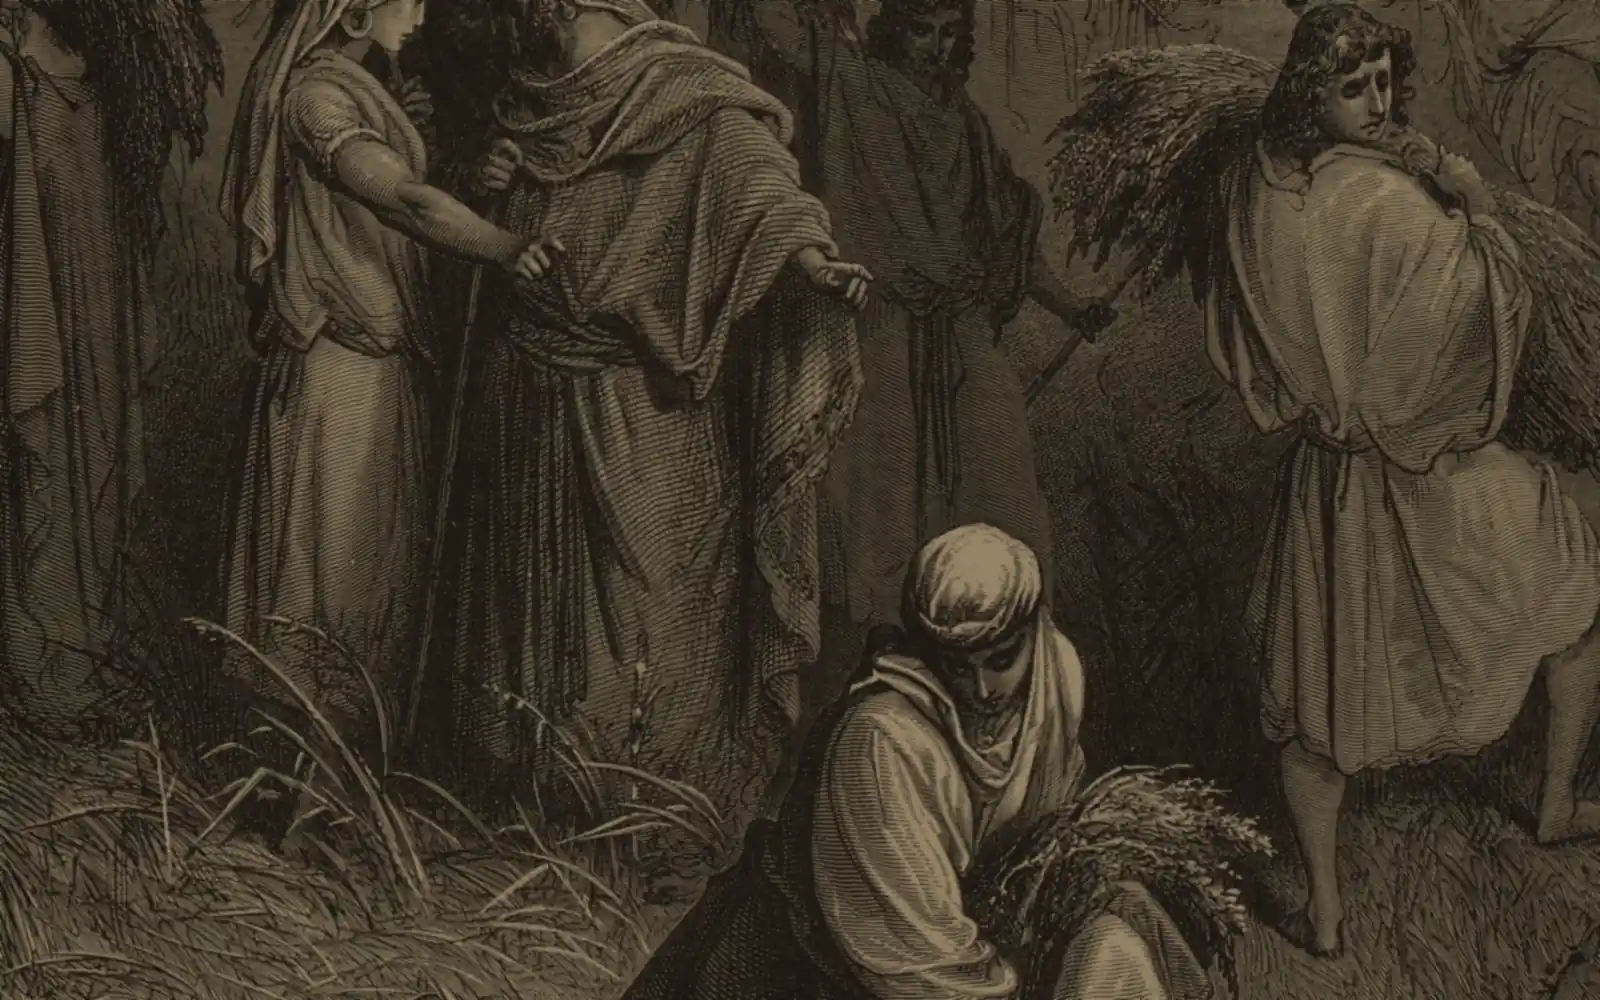
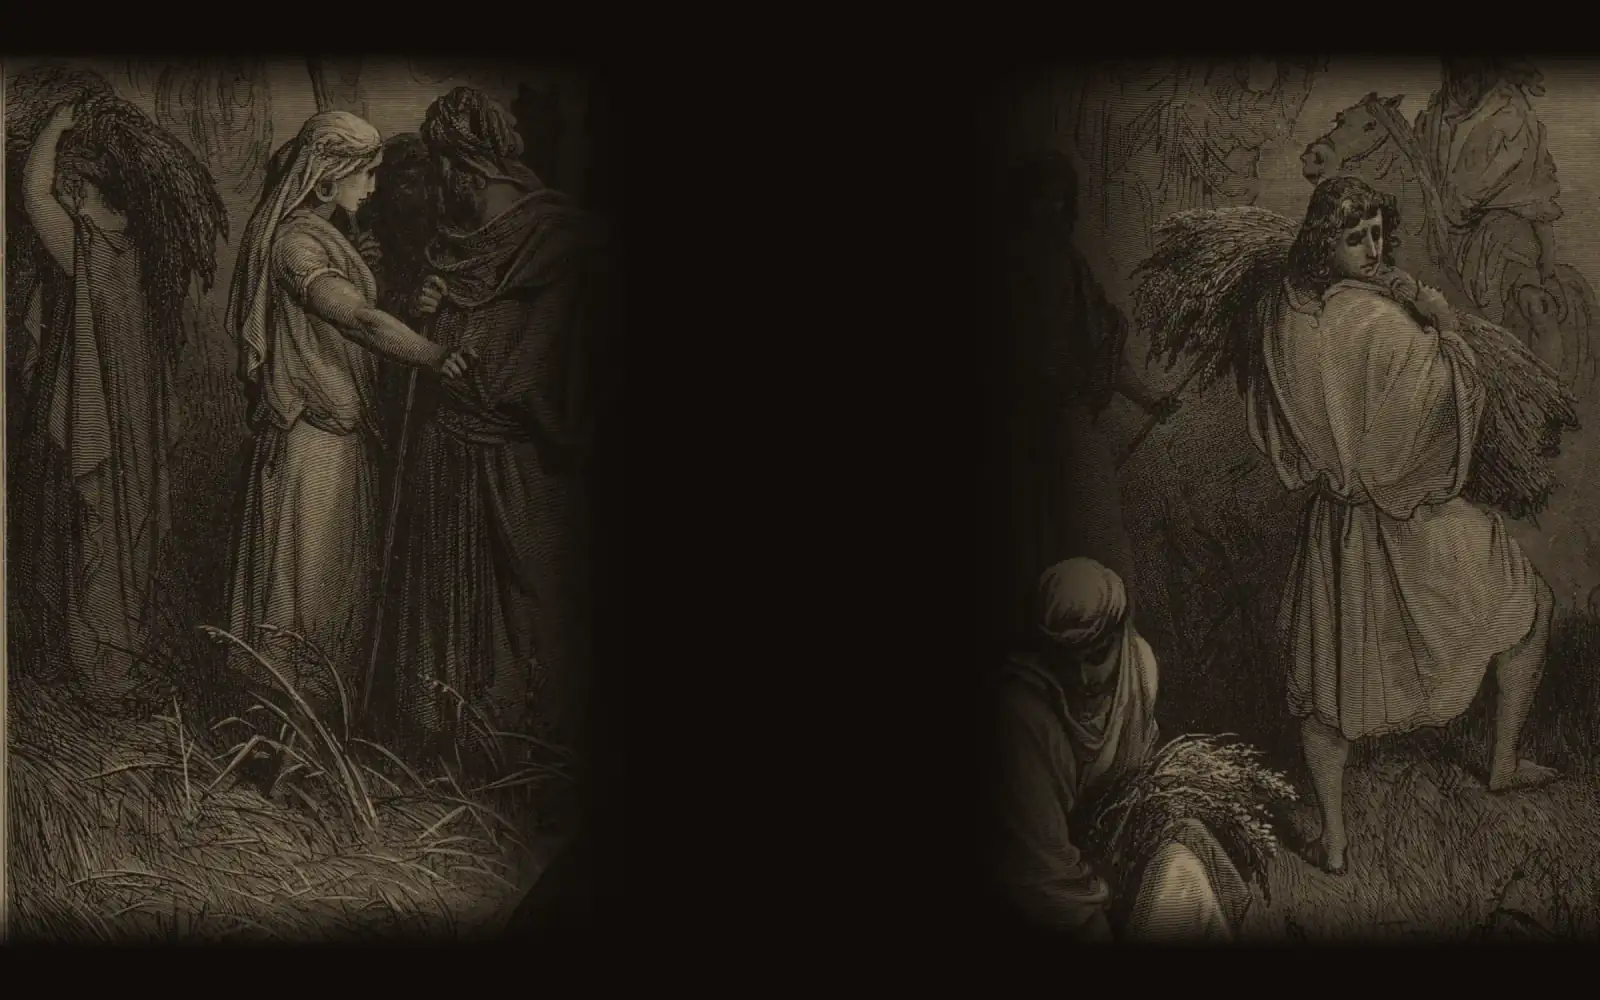
Art: no Jesus, no heads cut, and each About picture fits its section
Josh's rules. The room and Groups plates no longer show Jesus: the room
plate keeps only the listeners, and Groups only the parties at the sides of
the work. The mid-size group and Messages plates are recut so every head
stays, with a margin so a 16:10 screen or a phone does not trim an edge figure.

About's plates are now chosen by what each section says, not by which page
they came from, and a section with no fitting work has none.

diff --git a/src/components/board/about-view.tsx b/src/components/board/about-view.tsx
@@ -19,7 +19,7 @@ import { useServerSession } from "@/lib/server-session-state";
 import { fetchAccountExport, stepUpMfa } from "@/lib/mfa-api";
 import { RoomsManager } from "@/components/board/rooms-manager";
 import { useFocusAuthenticator } from "@/lib/board/focus-authenticator";
-import type { SectionPlateId } from "@/lib/board/engraved";
+import { SECTION_PLATE, type SectionPlateId } from "@/lib/board/engraved";
 import { AudienceChoice, RoomAudienceMark } from "@/components/board/audience";
 import { FIELD_HINT } from "@/lib/board/field-hints";
 import { cn } from "@/lib/cn";
@@ -117,27 +117,23 @@ const HOW = [
 ];
 
 /**
- * About's How it works, by what a reader wants to know. Every entry in HOW sits in one group, and each
- * group carries the plate of the page it explains.
+ * About's How it works, by what a reader wants to know. Every entry in HOW sits in one group. A group has a
+ * plate only where one fits what it says.
  */
-const HOW_HEADINGS: { heading: string; plate: SectionPlateId; titles: string[] }[] = [
+const HOW_HEADINGS: { heading: string; plate?: SectionPlateId; titles: string[] }[] = [
   {
     heading: "Getting in and showing up",
-    plate: "week",
+    plate: "gathering",
     titles: ["Getting in", "The week", "After a meeting"],
   },
   {
     heading: "Rooms and groups",
-    plate: "groups",
+    plate: "study",
     titles: ["What a room includes", "Members", "Room chat", "Interest groups", "Home"],
   },
-  { heading: "Talking to people", plate: "messages", titles: ["Who can see you", "Posting"] },
-  { heading: "Keeping it clean", plate: "civic", titles: ["Stewards", "Moderation"] },
-  {
-    heading: "What's in the rooms",
-    plate: "group",
-    titles: ["Debates", "Tradesmen", "Church needs"],
-  },
+  { heading: "Talking to people", plate: "writing", titles: ["Who can see you", "Posting"] },
+  { heading: "Keeping it clean", plate: "judgment", titles: ["Stewards", "Moderation"] },
+  { heading: "What's in the rooms", titles: ["Debates", "Tradesmen", "Church needs"] },
 ];
 
 const HOW_GROUPS = HOW_HEADINGS.map(({ heading, plate, titles }) => ({
@@ -145,6 +141,25 @@ const HOW_GROUPS = HOW_HEADINGS.map(({ heading, plate, titles }) => ({
   plate,
   items: HOW.filter((item) => titles.includes(item.title)),
 }));
+
+/** A section's rows and its plate: a band above them, or an upright plate beside them on a wide screen. */
+function WithPlate({ plate, children }: { plate?: SectionPlateId; children: ReactNode }) {
+  if (!plate) return children;
+  if (!SECTION_PLATE[plate].tall) {
+    return (
+      <>
+        <SectionPlate plate={plate} />
+        {children}
+      </>
+    );
+  }
+  return (
+    <div className="grid gap-4 lg:grid-cols-[minmax(0,1fr)_11rem] lg:gap-6">
+      {children}
+      <SectionPlate plate={plate} />
+    </div>
+  );
+}
 
 export function AboutView({
   publicView = false,
@@ -241,7 +256,7 @@ export function AboutView({
             modernity dissolved: the family, the parish, the town, and honest work.
           </p>
         </div>
-        <SectionPlate plate="hands" tall />
+        <SectionPlate plate="harvest" />
       </section>
 
       <section className={publicView ? "flex flex-col gap-4" : listCard}>
@@ -249,26 +264,26 @@ export function AboutView({
         {HOW_GROUPS.map((group) => (
           <div key={group.heading} className={box}>
             <h3 className="font-display text-xl text-fg">{group.heading}</h3>
-            <SectionPlate plate={group.plate} />
-            <dl>
-              {group.items.map((item) => (
-                <div key={item.title} className={entry}>
-                  <dt className={entryName}>{item.title}</dt>
-                  <dd className={entryText}>
-                    {item.text.split("\n").map((paragraph) => (
-                      <p key={paragraph}>{paragraph}</p>
-                    ))}
-                  </dd>
-                </div>
-              ))}
-            </dl>
+            <WithPlate plate={group.plate}>
+              <dl>
+                {group.items.map((item) => (
+                  <div key={item.title} className={entry}>
+                    <dt className={entryName}>{item.title}</dt>
+                    <dd className={entryText}>
+                      {item.text.split("\n").map((paragraph) => (
+                        <p key={paragraph}>{paragraph}</p>
+                      ))}
+                    </dd>
+                  </div>
+                ))}
+              </dl>
+            </WithPlate>
           </div>
         ))}
       </section>
 
       <section className={publicView ? box : listCard}>
         <h2 className={publicView ? "text-2xl text-fg" : "pc-h"}>The rooms</h2>
-        <SectionPlate plate="room" />
         <dl>
           {rooms.map((room) => (
             <div key={room.id} className={entry}>
@@ -283,7 +298,6 @@ export function AboutView({
 
       <section className={publicView ? box : listCard}>
         <h2 className={publicView ? "text-2xl text-fg" : "pc-h"}>Kinds of post</h2>
-        <SectionPlate plate="rooms" />
         <dl>
           {POST_TYPES.map((type) => (
             <div key={type.id} className={entry}>

diff --git a/src/lib/board/engraved.ts b/src/lib/board/engraved.ts
@@ -81,39 +81,36 @@ const PLATE_CAPTION: Partial<Record<Section | PlateView, string>> = {
   civic: "Gustave Doré · The Judgment of Solomon · 1866",
 };
 
-/** About's section plates, cut from the app's own art. Each is credited where it stands. */
+/**
+ * About's section plates, each chosen for what its section says and credited where it stands. Josh's rules:
+ * Jesus is never featured, no crop cuts off a head, and no work appears twice on the page.
+ * An upright plate stands beside the section's text; the others are bands above it.
+ */
 export const SECTION_PLATE = {
-  week: {
-    alt: "Angels on the stair of Jacob’s ladder",
-    caption: "Gustave Doré · Jacob’s Dream · 1866",
+  harvest: {
+    alt: "A reaper carrying a sheaf of grain home from the field",
+    caption: "Gustave Doré · Ruth and Boaz · 1866",
+    tall: true,
   },
-  groups: {
-    alt: "A crowd gathered around the Virgin and Child",
+  gathering: {
+    alt: "A party of men gathered in their best robes",
     caption: "Albrecht Dürer · The Feast of the Rose Garlands · 1506",
+    tall: true,
   },
-  messages: {
-    alt: "A hand writing at a small desk",
-    caption: "Albrecht Dürer · Erasmus of Rotterdam · 1526",
+  study: {
+    alt: "Saint Jerome writing in his room",
+    caption: "Albrecht Dürer · Saint Jerome in His Study · 1514",
+    tall: false,
   },
-  civic: {
+  judgment: {
     alt: "Solomon on his throne with one hand raised",
     caption: "Gustave Doré · The Judgment of Solomon · 1866",
+    tall: false,
   },
-  group: {
-    alt: "Ruth and Boaz among the reapers, one carrying a sheaf of grain",
-    caption: "Gustave Doré · Ruth and Boaz · 1866",
-  },
-  room: {
-    alt: "Christ seated on a hillside with the listeners around him",
-    caption: "Gustave Doré · The Sermon on the Mount · 1866",
-  },
-  rooms: {
-    alt: "Saint Jerome writing at his desk",
-    caption: "Albrecht Dürer · Saint Jerome in His Study · 1514",
-  },
-  hands: {
-    alt: "A pair of hands in prayer",
-    caption: "Albrecht Dürer · Praying Hands · 1508",
+  writing: {
+    alt: "Erasmus writing at his desk",
+    caption: "Albrecht Dürer · Erasmus of Rotterdam · 1526",
+    tall: true,
   },
 } as const;
 

diff --git a/src/lib/board/page-art.test.ts b/src/lib/board/page-art.test.ts
@@ -75,6 +75,23 @@ test("About, Privacy, and Terms stand on a whole plate, not a band: Martin for A
   assert.doesNotMatch(doc, /hero-band/);
 });
 
+test("About's plates keep Josh's rules: Jesus is not in them, and each has its section", () => {
+  const about = readFileSync(new URL("../../components/board/about-view.tsx", import.meta.url), "utf8");
+  const captions = Object.values(SECTION_PLATE).map((plate) => plate.caption).join(" ");
+  assert.doesNotMatch(captions, /Sermon on the Mount/);
+  for (const [heading, plate] of [
+    ["Getting in and showing up", "gathering"],
+    ["Keeping it clean", "judgment"],
+    ["Talking to people", "writing"],
+  ]) {
+    assert.match(about, new RegExp(`${heading}"[,\\s]*plate: "${plate}"`), heading);
+  }
+  assert.match(about, /<SectionPlate plate="harvest" \/>/);
+  assert.doesNotMatch(captions, /Praying Hands/);
+  const manifest = readFileSync(new URL("./art-two-sides.test.ts", import.meta.url), "utf8");
+  assert.doesNotMatch(manifest, /who: "Christ"/);
+});
+
 test("About sets each section plate once, with an on-list credit, and every file is credited", () => {
   const about = readFileSync(new URL("../../components/board/about-view.tsx", import.meta.url), "utf8");
   const credits = readFileSync(new URL("../../../public/art/ATTRIBUTION.md", import.meta.url), "utf8");

diff --git a/src/lib/board/art-two-sides.test.ts b/src/lib/board/art-two-sides.test.ts
@@ -29,7 +29,7 @@ const PLATES: Record<string, { left: Panel; right: Panel }> = {
     right: { artist: "Albrecht Dürer", work: "Saint Jerome in His Study", box: [0.408, 0.287, 0.742, 0.647] },
   },
   "plate-room-A-2400.webp": {
-    left: { artist: "Gustave Doré", work: "The Sermon on the Mount", box: [0.389, 0.105, 0.821, 0.555] },
+    left: { artist: "Gustave Doré", work: "The Sermon on the Mount", box: [0.15, 0.555, 0.56, 0.95] },
     right: { artist: "Gustave Doré", work: "The Sermon on the Mount", box: [0.627, 0.55, 0.973, 0.91] },
   },
   "plate-groups-A-2400.webp": {
@@ -189,8 +189,7 @@ const HEADS: Record<string, { who: string; box: [number, number, number, number]
     { who: "Saint Jerome", box: [2040, 600, 2250, 870], from: 1600 },
   ],
   "plate-room-A-2400.webp": [
-    { who: "Christ", box: [250, 600, 360, 725], from: 1600 },
-    { who: "the woman beside Christ", box: [40, 710, 115, 805], from: 1600 },
+    { who: "the listener at the left", box: [20, 420, 120, 560], from: 1600 },
   ],
   "plate-week-A-2400.webp": [{ who: "Jacob", box: [230, 420, 380, 520], from: 1600 }],
 };

diff --git a/src/components/board/section-plate.tsx b/src/components/board/section-plate.tsx
@@ -1,8 +1,8 @@
 import { SECTION_PLATE, type SectionPlateId } from "@/lib/board/engraved";
 
 /** A plate set in a section, as in a book: an engraved frame with its credit under it. Data savers skip it. */
-export function SectionPlate({ plate, tall = false }: { plate: SectionPlateId; tall?: boolean }) {
-  const { alt, caption } = SECTION_PLATE[plate];
+export function SectionPlate({ plate }: { plate: SectionPlateId }) {
+  const { alt, caption, tall } = SECTION_PLATE[plate];
   return (
     <figure className={tall ? "section-plate section-plate--tall" : "section-plate"}>
       <img

diff --git a/public/art/ATTRIBUTION.md b/public/art/ATTRIBUTION.md
@@ -65,7 +65,7 @@ fails if any screen at 1600, 1920 or 2560 shows the same file or panel twice, or
 |---|---|---|---|
 | This week | Doré, *Jacob's Dream*: Jacob asleep (lower left) | the same plate: the lit top of the ladder and angels | `plate-week-A-2400.webp` |
 | Rooms | Dürer, *Saint Jerome in His Study*: the sleeping lion | the same plate: Jerome at his desk | `plate-rooms-A-2400.webp` |
-| A room | Doré, *The Sermon on the Mount*: Christ and the hillside | the same plate: the listeners, lower right, fading into the ground at the top | `plate-room-A-2400.webp` |
+| A room | Doré, *The Sermon on the Mount*: the seated listeners, lower left | the same plate: the listeners, lower right, fading into the ground at the top | `plate-room-A-2400.webp` |
 | Groups | Dürer, *The Feast of the Rose Garlands*: the pope's party | the same work: the emperor's party | `plate-groups-A-2400.webp` |
 | A group | Doré, *Ruth and Boaz*: the gleaners, left | the same plate: the reapers, right | `plate-group-A-2400.webp` |
 | Find | Bauer, *Princess Tuvstarr*: Tuvstarr at the tarn | the same work: the trees at the far left of the scene | `plate-find-A-2400.webp` |
@@ -76,21 +76,28 @@ fails if any screen at 1600, 1920 or 2560 shows the same file or panel twice, or
 
 ### Section plates on About
 
-About's sections each carry a plate, cut from files above, and each is credited under the picture. No new
-scan and no new licence. `section-<key>.webp` is 1500×500 (the hands 600×800) and under 90 KB; the sepia plates
-have their levels lifted so the line work reads at this size, and the two grey sources are warmed to match.
-A section uses the plate of the page it explains. One screen shows each work once, beside the door's Martin.
+Josh, Oct 31: Jesus is never featured, no crop cuts off a head, and each picture matches its section. Every
+plate here is cut from files above and credited under the picture. No new scan and no new licence.
+`section-<key>.webp` is under 90 KB; the sepia plates have their levels lifted so the line work reads at this size.
+What's in the rooms, The rooms and Kinds of post carry no plate: no work left fits them without repeating one on the page.
 
 | Screen | Work | File | Cut from | Licence |
 |---|---|---|---|---|
-| Getting in and showing up | Gustave Doré, *Jacob's Dream*, 1866 | `section-week.webp` | `dore-band-A.webp` | Public domain (artist died 1883) |
-| Rooms and groups | Albrecht Dürer, *The Feast of the Rose Garlands*, 1506 | `section-groups.webp` | `plate-groups-A.webp` | Public domain (artist died 1528) |
-| Talking to people | Albrecht Dürer, *Erasmus of Rotterdam*, 1526 | `section-messages.webp` | `plate-messages-A.webp` | CC0 (NGA Open Access) |
-| Keeping it clean | Gustave Doré, *The Judgment of Solomon*, 1866; Solomon only, no sword or child | `section-civic.webp` | `plate-desk-A.webp` | Public domain (artist died 1883) |
-| What's in the rooms | Gustave Doré, *Ruth and Boaz*, 1866 | `section-group.webp` | `plate-group-A.webp` | Public domain (artist died 1883) |
-| The rooms | Gustave Doré, *The Sermon on the Mount*, 1866 | `section-room.webp` | `plate-room-A.webp` | Public domain (artist died 1883) |
-| Kinds of post | Albrecht Dürer, *Saint Jerome in His Study*, 1514 | `section-rooms.webp` | `durer-jerome-band-A.webp` | CC0 (NGA Open Access) |
-| What we stand for | Albrecht Dürer, *Study of an Apostle's Hands (Praying Hands)*, 1508 | `section-hands.webp` | `durer-hands-side-A.webp` | Public domain (artist died 1528) |
+| What we stand for | Gustave Doré, *Ruth and Boaz*, 1866: a reaper and his sheaf, honest work. The top of the crop fades into the print's sky, because the print's own top edge runs through two far figures | `section-harvest.webp` | `plate-group-A-2400.webp` | Public domain (artist died 1883) |
+| Getting in and showing up | Albrecht Dürer, *The Feast of the Rose Garlands*, 1506: the pope's party, people who turned up | `section-gathering.webp` | `plate-groups-A-2400.webp` | Public domain (artist died 1528) |
+| Rooms and groups | Albrecht Dürer, *Saint Jerome in His Study*, 1514: a room; the crucifix on the sill is out of frame | `section-study.webp` | `durer-jerome-band-A.webp` | CC0 (NGA Open Access) |
+| Keeping it clean | Gustave Doré, *The Judgment of Solomon*, 1866: Solomon only, no sword or child | `section-judgment.webp` | `plate-desk-A.webp` | Public domain (artist died 1883) |
+| Talking to people | Albrecht Dürer, *Erasmus of Rotterdam*, 1526: a man writing to someone, for messages and posts | `section-writing.webp` | `plate-messages-A-900.webp` | CC0 (NGA Open Access) |
+
+### Recut Oct 31: no Jesus, no heads cut
+
+`plate-room-A` (all three sizes) shows only the listeners from *The Sermon on the Mount*: Christ and the figures
+around him are out of every crop, and the left panel is the crowd left of them. `plate-groups-A` and its 900px file
+show only the two parties at the sides of *The Feast of the Rose Garlands*: the Virgin and the Child are out.
+`plate-group-A` and `plate-messages-A` are cut from their 2400 files, which keep every head. The 1600
+Messages plate keeps Erasmus alone, so its credit stays true. All four 1600 files set the 16:9 art on the
+dark ground at 1600×1000, so a 16:10 screen shows it whole, and the two recut phone files keep the art inside
+the middle 738px a phone shows. Other screen shapes can still trim an edge figure.
 
 Rejected: the MFAH photograph of Martin's *Adam and Eve, the Morning Hymn* is CC BY-SA 4.0, not public domain or CC0. None of Martin's destruction scenes are used.
 Rejected: Jost Amman's *Der Schreiner* (1568) for Groups. The Wellcome scan is CC BY 4.0, and the public-domain scans are about 500 px wide, too small without upscaling.
